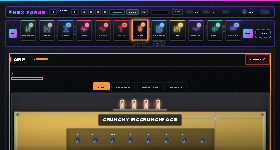
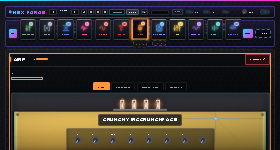
Amp 2/Cab 2 mini-tiles bigger + more readable (12px semibold, full width)

Changed region(s): [[0.0571, 0.1067, 0.8571, 0.32]]

diff --git a/lv2/modgui-hexforge/stylesheet-hexforge.css b/lv2/modgui-hexforge/stylesheet-hexforge.css
@@ -256,10 +256,10 @@
     box-shadow: 0 0 10px rgba(120,90,255,.4);
 }
 .mod-pedal-guitaramp-hexforge{{{cns}}} .hf-nodes {
-    /* 148px tall with top-anchored tiles (2026-07-30): leaves a 30px band under the
-       108px tiles for the stacked Amp 2 / Cab 2 mini-tiles. */
+    /* 160px tall with top-anchored tiles (2026-07-30): leaves a 42px band under the
+       108px tiles for the stacked Amp 2 / Cab 2 mini-tiles (12px readable text). */
     flex: 1 1 auto; min-width: 0; position: relative; display: flex; flex-wrap: nowrap; align-items: flex-start;
-    gap: 12px; height: 148px; padding: 10px 6px 0;
+    gap: 12px; height: 160px; padding: 10px 6px 0;
     /* when there are too many nodes to fit, scroll horizontally (scrollbar hidden globally),
        so the last node is always reachable instead of being clipped off the end */
     overflow-x: auto; overflow-y: hidden; scrollbar-width: none;
@@ -982,13 +982,13 @@
    palette, resort) carries them, but rendered fully below the tile box (top:
    100% + gap). .hf-nodes grows to 146px to give the stack room. ─────────────── */
 .mod-pedal-guitaramp-hexforge{{{cns}}} .hf-subnode {
-  position: absolute; top: calc(100% + 4px); left: 6px; right: 6px; z-index: 3;
-  font-size: 9px; letter-spacing: 0.1em; text-align: center; cursor: pointer;
-  padding: 3px 0; border-radius: 7px; color: rgba(240,168,53,0.95);
+  position: absolute; top: calc(100% + 5px); left: 2px; right: 2px; z-index: 3;
+  font-size: 12px; font-weight: 600; letter-spacing: 0.14em; text-align: center; cursor: pointer;
+  padding: 6px 0; border-radius: 8px; color: rgba(240,168,53,0.98);
   background-color: #171410;
   background-image: linear-gradient(180deg, rgba(255,255,255,.07), rgba(0,0,0,.4));
   border: 1px solid rgba(240,168,53,0.55); border-top: 2px solid rgba(240,168,53,0.85);
-  box-shadow: 0 0 7px rgba(240,168,53,0.22), 0 3px 8px rgba(0,0,0,0.5);
+  box-shadow: 0 0 8px rgba(240,168,53,0.25), 0 3px 8px rgba(0,0,0,0.5);
 }
 .mod-pedal-guitaramp-hexforge{{{cns}}} .hf-palette .hf-subnode { display: none; }
 .mod-pedal-guitaramp-hexforge{{{cns}}} .hf-subnode.hf-subnode-off {
